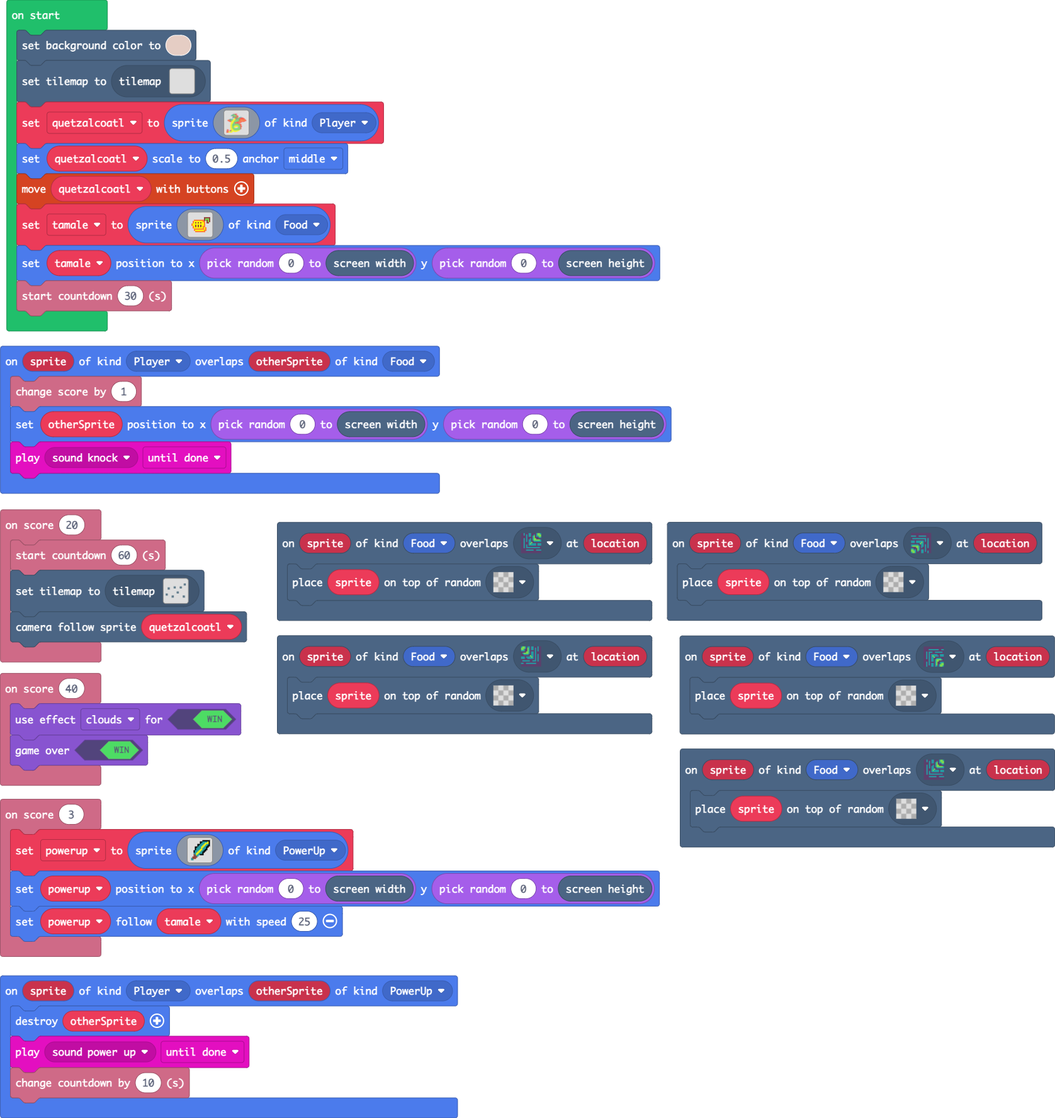
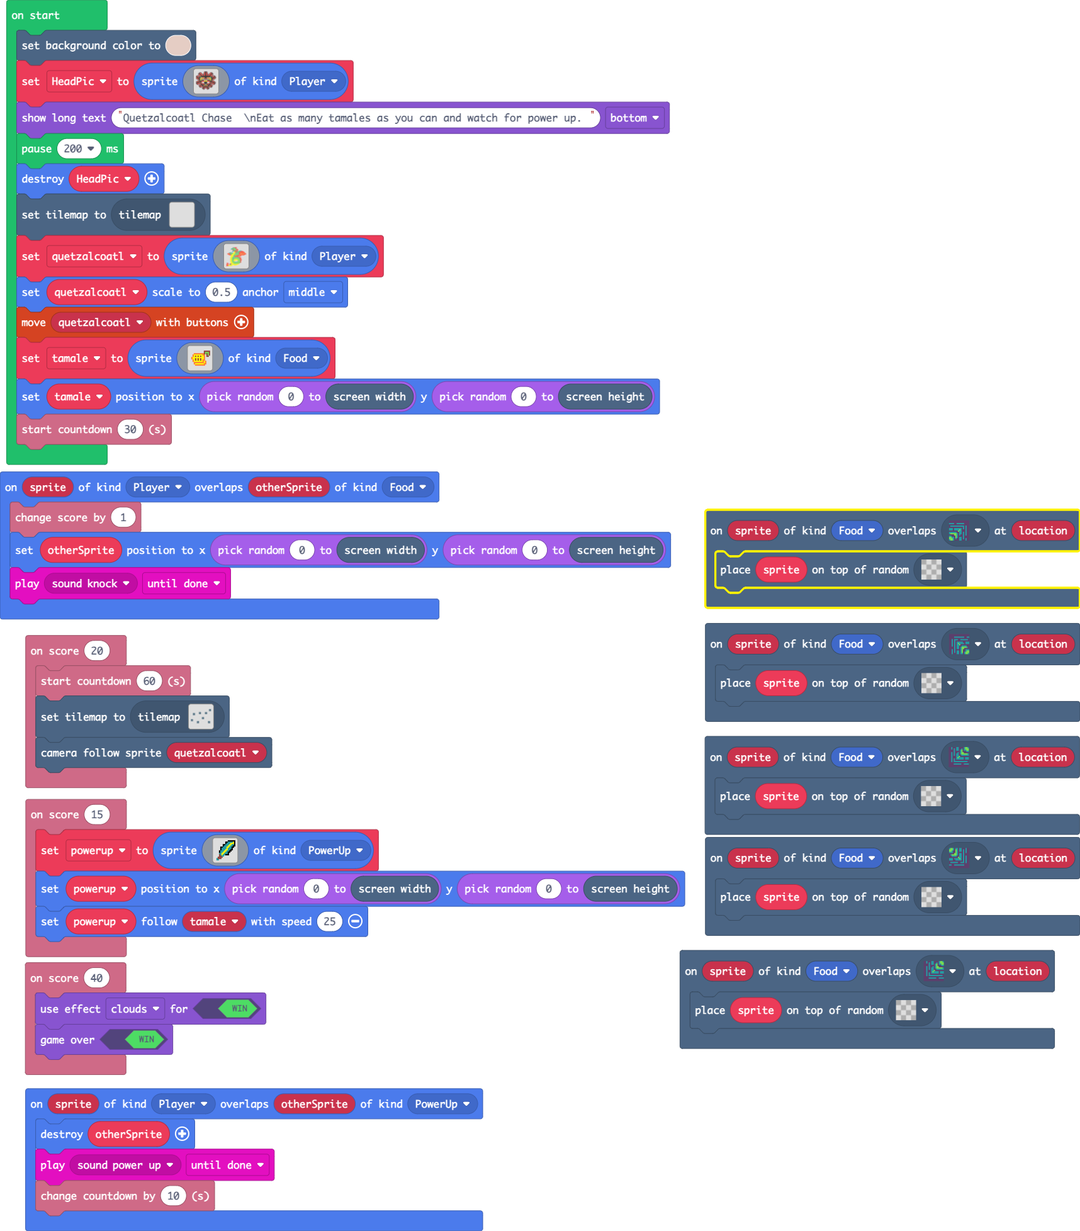
Update pxt.json, main.blocks, main.ts

diff --git a/main.ts b/main.ts
@@ -7,6 +7,11 @@ scene.onOverlapTile(SpriteKind.Food, sprites.dungeon.greenInnerSouthEast, functi
 scene.onOverlapTile(SpriteKind.Food, sprites.dungeon.greenInnerNorthWest, function (sprite, location) {
     tiles.placeOnRandomTile(sprite, assets.tile`transparency16`)
 })
+info.onScore(15, function () {
+    powerup = sprites.create(assets.image`sword`, SpriteKind.PowerUp)
+    powerup.setPosition(randint(0, scene.screenWidth()), randint(0, scene.screenHeight()))
+    powerup.follow(tamale, 25)
+})
 sprites.onOverlap(SpriteKind.Player, SpriteKind.PowerUp, function (sprite, otherSprite) {
     sprites.destroy(otherSprite)
     music.play(music.melodyPlayable(music.powerUp), music.PlaybackMode.UntilDone)
@@ -17,11 +22,6 @@ scene.onOverlapTile(SpriteKind.Food, assets.tile`myTile`, function (sprite, loca
 })
 scene.onOverlapTile(SpriteKind.Food, sprites.dungeon.greenInnerNorthEast, function (sprite, location) {
     tiles.placeOnRandomTile(sprite, assets.tile`transparency16`)
-})
-info.onScore(3, function () {
-    powerup = sprites.create(assets.image`sword`, SpriteKind.PowerUp)
-    powerup.setPosition(randint(0, scene.screenWidth()), randint(0, scene.screenHeight()))
-    powerup.follow(tamale, 25)
 })
 sprites.onOverlap(SpriteKind.Player, SpriteKind.Food, function (sprite, otherSprite) {
     info.changeScoreBy(1)
@@ -44,6 +44,161 @@ let powerup: Sprite = null
 let tamale: Sprite = null
 let quetzalcoatl: Sprite = null
 scene.setBackgroundColor(13)
+let HeadPic = sprites.create(img`
+    ...............................................................................................................................................................
+    ...............................................................................................................................................................
+    ...................................................................bfffffffb..cfffffffb........................................................................
+    ...................................................................bfffffffb..cfffffffb........................................................................
+    ................................................................dbbefffffffcbccfffffffebb......................................................................
+    ................................................................dfff22ffffffffffffff22fff......................................................................
+    ................................................................dfffeeffffffffffffffe2fff......................................................................
+    ................................................................dfff22e2effffffffeee22fff......................................................................
+    ................................................................dfff2222effffffffe222efff......................................................................
+    ..........................dbbbbbbbbbbbbbd....................dbbbfff2222effffffffe222efffbbbd....................dbbbbbbbbbbbbbd...............................
+    ..........................dfffffffffffffb....................dfffeeee222effffffffe2222eeeffcd....................bfffffffffffffd...............................
+    ..........................dfffffffffffffb....................dfffe22e222effffffffe2222e2effcd....................bfffffffffffffd...............................
+    ........................bccfffffffffffffecc..................dfffe222222effffffffe2222ee2ffcd..................cccfffffffffffffccb.............................
+    ........................cffffe222222222efff..................dfffe222222effffffffe2222ee2ffcd..................fffe22222222eeffffc.............................
+    ......................d.cffffee22222222efff.d................dfffe222222effffffffe2222ee2ffcd..................fff222222222eeffffc.............................
+    .....................dccfffffe22ee2222eefffccb...............dfffe222222effffffffe2222ee2ffcd...............bccfffe2e22ee222efffffccd..........................
+    .....................bfffffffe2e22222222222ffc...............dfffe222222effffffffe2222ee2ffcd...............cff2e22e22222222efffffffb..........................
+    .....................bfffffffeeee2222222e22ffc...............dcffe222222effffffffe2222ee2ffcd...............cff22e2e2222eeeeefffffffb..........................
+    ..................bfffffffffffffe222e2222e2eefffb..........ffffee2222222effffffffe2222222eefffc..........cfffee22222e2222efffffffffffffd.......................
+    ..................bfffffffffffffe222e22222222fffb..........ffffee2222222effffffffe22222222efffc..........cfff222222222222efffffffffffffd.......................
+    ..................bfffffffffffffeeeee222222e2fffebbd.......ffff2e2222222effffffffe222222222fffc.......dbbcfff2e222222eeeeffffffffffffffd.......................
+    ..................bfff2eeeeffffffffee22222222222fffb.......fffeee2222222effffffffe2222222e2fffc.......bfff222ee222e22eeffffffffeee22fffd.......................
+    ..................bfff2e2eeffffffffeee2222222222fffb.......ffffee2222222effffffffe2222222e2fffc.......bfff222222222222effffffffee222fffd.......................
+    ..................bfff2eeeeeefffffffff2222222222eeeccc.....ffffee2222222effffffffe2222222e2fffc.....ccceeee22222222efffffffffeee2e22fffd.......................
+    ..................bfff2e22222fffffffff22222222222eefff.....ffffee2222222effffffffe2222222e2fffc.....fff2ee222222222efffffffff2222222fffd.......................
+    ..................bfff2e22222fffffffffee22222222e22fffddd..ffffee2222222effffffffe2222222e2fffc..dddfff2e22222222eeefffffffffee22222fffd.......................
+    ..................bfff2e222e2eeeffffffffe22222222e2eeeffc..ffffee2222222effffffffe2222222e2fffc..cffeee2e2222222eeffffffffeee2222222fffd.......................
+    ..................bfff2e222e22eeffffffffe22222222e22e2ffc..ffffee2222222effffffffe2222222e2fffc..cffe2e2222222222effffffffee22e22222fffd.......................
+    ..................bfff222222e2e2fffffffffee2e222222e2effebbffffee2222222effffffffe2222222e2ffffbbcffe2e2222eee2eefffffffffee22e2222efffd.......................
+    ..................bfff2222222222eeeffffffffe22e2222eeeeefffffffee2222222effffffffe2222222e2fffffffeee222222eeeeffffffffeee2e22eee22efffd.......................
+    ..................bfff222222222ee2effffffffe222e22222e22fffffffee2222222effffffffe2222222e2fffffff222e22222222effffffffe2222222e22eefffd.......................
+    ..................bcccffe2e22222eeeffffffffeeeee2e2ee222fffffffee2222222effffffffee222222e2fffffff222eee222eeeeffffffffee2e2222e2effcccd.......................
+    .....................bffeee2222222ee2effffffffee2e2e222222effffee2222e22effffffffee2e2222e2ffff2222222ee22eeffffffffe2222222222eeeffb..........................
+    .....................bffe222222222e22effffffffeee2e2222222effffee22222eeeffffffffeeee2222e2ffff22222222e2eeeffffffffe2222222222eeeffb..........................
+    ....dbcccccccccc.....dbdcff22222222ee2eefffffffff2e2222222effffee222eeffffffffffffff2e222e2ffff2222222222fffffffffeee2222222222ffcddd.....ccccccccccbd.........
+    ....dcfffffffffc........cff2e222222222eefffffffffee22222222fffe2e2222effffffffffffff2e2222effff2e222222eefffffffffe2e222222e222ffc........cfffffffffcd.........
+    ..dddcfffffffffc.dddd...cffeee22222222eefffffffffeeeeeeeeeeffffeeeee2effffffffffffffeeeeeeeffffeeeeeeeee2fffffffffe22222222e2eeffc...dddddcfffffffffcdd........
+    ..cfff222222222efffffc....dfff22222222e2ee2ffffffffffffffffffffffffffffffffffffffffffffffffffffffffffffffffffff2ee2e2222222efffd....cfffffe222222222fffc.......
+    ..cfff222222222efffffc....dfff2e2e2e2e222eeffffffffffffffffffffffffffffffffffffffffffffffffffffffffffffffffffff2222e2e22e22efffd....cfffffe22222e2e2fffc.......
+    ..cfffffe2e222eefffffccccccbbeffe2efffffffffffffffffffffffffffffffffffffffffffffffffffffffffffffffffffffffffffffffffffee2effebbccccccfffffee2222e2fffffc.......
+    ..cfffffe2e2222eeeeeeffffff11cffe2effffffffffffffffffffffffffffffffffffffffffffffffffffffffffffffffffffffffffffffffffffe2fffc11ffffffeeeeeee222e22fffffc.......
+    ..cfffff222222e2e222effffff11cffe2effffffffffffffffffffffffffffffffffffffffffffffffffffffffffffffffffffffffffffffffffffeefffc11ffffffe222222222ee2fffffc.......
+    ccffffff2e2222222222eeffffeccffffffffffffffffffffffffffffffffffffffffffffffffffffffffffffffffffffffffffffffffffffffffffffffffcceffffe2222222eeeee2ffffffccb....
+    ffffffff22ee2e222222ee2ee2effffffffffffffffffffffffffffffffffffffffffffffffffffffffffffffffffffffffffffffffffffffffffffffffffffee2eee2222222eeeee2ffffffffb....
+    ffffffffeeeeee2222222e2222effffffffffffffffffffffffffffffffffffffffffffffffffffffffffffffffffffffffffffffffffffffffffffffffffffe22eee2222222eeeeeeffffffffbdd..
+    fffffffffffffee22222222eeeefffff66666666666ffffffffffffffffffffffffffffffffffffffffffffffffffffffffffffffffffff6666666666ffffffee2e22222e222efffffffffffffccc..
+    fffffffffffffe2eee222222e2efffff77777777777ffffffffffffffffffffffffffffffffffffffffffffffffffffffffffffffffffff77777777776fffffeee222222eee2effffffffffffffff..
+    fffffffffffffeee22222e2eeeefffff67777777777ffffffffffffffffffffffffffffffffffffffffffffffffffffffffffffffffffff77777777776fffffeee22222222eeeffffffffffffffff..
+    e222efffffffffffe2222eeeffffffffffffff77777777444444444444444444444effffffffffffffffffe44444444444444444444477777777ffffffffffffffe2e2222efffffffffffe222efff..
+    e22eefffffffffffee22eeeeffffffffffffff77777777444444444444444444444effffffffffffffffffe44444444444444444444477777777ffffffffffffffe2e2222efffffffffffe222efff..
+    e222eefffffffffffffffe2effffffffffffffff6777774444444444444444444444eeffffffffffffffee4444444444444444444444777776ffffffffffffffffe2efffffffffffffffee222efff..
+    e222222effffffffffffff2effffffffffffffff677777444444444444444444444444ffffffffffffff444444444444444444444444777776ffffffffffffffffe2ffffffffffffffe222e22efff..
+    e222222effffffffffffff2effffffffffffffff677777444444444444444444444444ffffffffffffff444444444444444444444444777776ffffffffffffffffe2ffffffffffffffeee2222efff..
+    e2222222eeeeeffffffffffffffffffffff55555555444444444444444444444444444ffffffffffffff44444444444444444444444444455555555ffffffffffffffffffffffeeeee2222222efff..
+    e222222e22222ffffffffffffffffffffff55555555444444444444444444444444444ffffffffffffff44444444444444444444444444455555555ffffffffffffffffffffff2e2222222222efff..
+    ffe222222ee22fffffffffffffffffff7775555555544444444eeeeeeeeeeeeee44eeeccffffffffffcceee44eeeeeeeeeeeeee4444444455555555776fffffffffffffffffffee222222eeeffccc..
+    ffe2ee2222e22eeeffffffffffffffff555555ffe5544444444cfffffffffffff44effe222222222222effe44fffffffffffffe4444444455eff555557ffffffffffffffffeeee2222ee222fffb....
+    ffe22ee22222e22effffffffffffffff555555ffe5544444444cfffffffffffff44eff22222222222222ffe4efffffffffffffc4444444455eff555555ffffffffffffffffe2e22222222e2fffb....
+    cccffeee22eee2eeffffffffffffffff555eeeee55544444eeeeeeeeeeeeeeeeeeefffeeeee222eeeeeefffeeeeeeeeeeeeeeeeeee44444555eeeee557ffffffffffffffffee2222222eeffcccd....
+    ..cfff22e22e22222222eeffffffffff755fff5555544444effe5555555555557ffffffffffe22effffffffff5555555555555effe4444e55555fff557ffffffffffee2222222eee22eefffc.......
+    ..cfffeeeee222222222eeffffffffff755fff55555444eeeffe5555555555557ffffffffffe22effffffffff5555555555555effeee44e55555fff557ffffffffffee222222222eeeeefffc.......
+    ..bbccfffff2e2222222eeffffffffff755fff5555544eeceee45511111111557fffeeeeeeeeeeeeeeeeeefff55511111111554eeecee4455555fff557ffffffffffee222222222fffffccbb.......
+    ....dcfffff222222e22222effffffff755fff5555544effe5555511111111557ffc3333333effe3333333cff5551111111155555effe4455555fff557ffffffffe22e2222e2222fffffcd.........
+    ....dcfffffeeeeee222222effffffff755fff5555544effe5555511111111557ffc3333333effe3333333cff55d1111111155555effe4455555fff557ffffffffe22222eeeeeeefffffcd.........
+    ......ddddbfffffee22222effffffff755fff5554444effe55111fffffffcd1dffc33ffc33effe33cff33cff11dcfffffff11155effe4444555fff557ffffffffe222222efffffbdddd...........
+    ..........bfffffe222222effffffff755fff5544444effe55111fffffffcd1dffc33fff33effe33fff33cff11dffffffff11155effe4444455fff557ffffffffe222222efffffb...............
+    ..........dcccccfffffe2effffffff755efc5544444effe55111fffffffcd1deeebbfff33effe33fffbbeee11dffffffff11155effe4444455efe557ffffffffeeefffffcccccd...............
+    ...............dffffff2effffffff755555ffe4444effe55111fffffffcd11557fffff33effe33fffff75511dffffffff11155effe4444eff455557ffffffffe2ffffffd....................
+    ...............dffffff2effffffff755554ffe4444effe55111fffffffcd11557fffff33effe33fffffe5511dffffffff11155effe4444eff455557ffffffffe2ffffffd....................
+    ................dddddbffffffffffffc555ee455ffffff66cccfffffffcd1dffebbbbb33effe33bbbbbeff11dffffffffccc66ffffff554ee555effffffffffffbddddd.....................
+    .....................bfffffffffffff75555555ffffffffffffffffffcd1dffc3333333effe3333333cff11dfffffffffffffffffff55555557fffffffffffffb..........................
+    ...................ddbfffffffffffff75555555ffffffffffffffffffcdddffc3333333effe3333333cffdddfffffffffffffffffff55555557fffffffffffffbdd........................
+    ..................bccffffeeeefffffffff55555fffffffffffffffffff666ff75555555effe5555555eff666fffffffffffffffffff55555fffffffffeeeefffffcd.......................
+    ..................bfffffe2222fffffffff55555ffffffffffffffffffffffff75555555effe55555557ffffffffffffffffffffffff55555fffffffffee22efffffd.......................
+    .............dddddcfffffe2222fffffffff55555ffffffcccccccccccccccc7675555555effe5555555767eeecccccccccccccffffff55555fffffffffee22efffffbddddd..................
+    .b...........cfffffeeeeee22eeeeeffffffffffffffffe22222222222222225555555555effe55555555552222222222222222effffffffffffffffeee2e2eeeeeeefffffc..................
+    .b...........ffffffe2222222eeeeeffffffffffffffffe22222222222222225555555555effe55555555552222222222222222effffffffffffffffe22222222222effffff..................
+    db......dddddffffffe2222222e2eeeffffffffffffffcce22222222222222225555555555effe55555555552222222222222222eeeffffffffffffffeeeee222222eeffffffddddd.............
+    cc......fffffe2222e2222222222fffffffffffffffffee222222222222222225555555555effe555555555522222222222222222eefffffffffffffffffee2222222e22222efffff.............
+    ff......fffffe222222e2eeeeee2fffffffffffffffffe2222222222222222225555555555effe5555555555222222222222222222efffffffffffffffffeeeee2222e22222efffff.............
+    ff..dbccfffffe222222eeeefffffffffffffffffffffeee222222222222222225555555555effe5555555555222222222222222222eefefffffffffffffffffffe222eee222efffffccbd.........
+    ff..dcff22222e2222222e2efffffffffffffffffff22e22222222222222222225555555555effe555555555522222222222222222eee22fffffffffffffffffffe2222222222eeee2ffcd.........
+    ff.ddcff2e22e222222eeeeefffffffffffffffffffee2e2222222222222222225555555555effe5555555555222222222222222222e2eefffffffffffffffffffeeeeee22222222e2ffcdd........
+    ffcfffeee222e2222eeffffffffffffffffffffffeee22e2effbdddd344444444ffffffffffffffffffffffff444444443ddddbffe2222eeeffffffffffffffffffffffee222222eeeeefffc.......
+    ffcfff222eee22222eeffffffffffffffffffffff222e222effeddddb44444444ffffffffffffffffffffffff444444443ddddeffe2ee22e2ffffffffffffffffffffffe222222ee2222fffc.......
+    cccffe22ee2e2effffffffffffffffffffffffffe2e22eeeebbbddddd3333333bffffffffffffffffffffffff33333333dddddbbbeeee22e2effffffffffffffffffffffffffee222e22effcccd....
+    fffeee22e22e2ffffffffffffffffeeeffffffeee2e22effeddd11ddd11111ddbffffffffffffffffffffffffddd11111ddd11dddeffee2e2eeeffffffeeeffffffffffffffff2e22ee2eeefffb....
+    fff22222e2e22ffffffffffffffffeeeffffffe22ee22effeddd11ddd11111ddbffffffffffffffffffffffffddd11111ddd11dddeffe2222222ffffffe2effffffffffffffff22222e2222fffb....
+    fff2222efffffffffffffffffeeeee2effffffe2222ffebbdddd11ddd11111ddbffffffffffffffffffffffffddd11111ddd11ddddbbeffee222ffffffeeeeeeefffffffffffffffffe2222fffb....
+    fff2222effffffffffffffffe222222effffffe222effb11dddd11ddd11111ddbffffffffffffffffffffffffddd11111ddd11ddd111bff2e222ffffffee22222effffffffffffffffe2222fffb....
+    fffeeeeeffffffffffffffffe222222effffffe222effedddddd11ddd11111ddbffffffffffffffffffffffffddd11111ddd11dddd1deff2e222ffffffe222e2eeffffffffffffffffeeeeefffb....
+    fffffffffffffffffffeeeeee222222eeeffffe2222eeeeebddd11ddd11111ddbffffffffffffffffffffffffddd11111ddd11dddbeeeee22222fffeeee222e2eeeeeeefffffffffffffffffffb....
+    fffffffffffffffffffe222222222222eeefffe222e2eeffeddd11ddd11111ddbffffffffffffffffffffffffddd11111ddd11dddeffe22e2222fffeee2222e22e2222efffffffffffffffffffb....
+    fffffffffffffffffffe222222222222eeefffeee2222effeddd11ddd11111ddbffffffffffffffffffffffffddd11111ddd11dddeffe2222eeefffeee2222222222222fffffffffffffffffffb....
+    fffffffffffffe222ee2e2222222222efffffffffe2222eeeffe44443dddddddbffffffffffffffffffffffffdddddddd34444effe2e22222fffffffffee222222222e2ee222efffffffffffffb....
+    fffffffffffffe222222e2222222222efffffffff222222eeffe44443dddddddbffffffffffffffffffffffffdddddddd34444effe2e22222fffffffffe2222222222ee22222efffffffffffffb....
+    bbfffffffffffe222e22e2e222efffffcbcffffffff2eeee2222eeeeeeeeeeeeeffffffffffffffffffffffffeeeeeeeeeeeee2222222e2ffffffffbbefffffe222ee2e2ee22effffffffffcbbd....
+    ..cfffff22222222222222e222efffffd11cfffffff2e2222222ffffffffffffffffffffffffffffffffffffffffffffffffff2222e2222fffffffc11bfffffe2e2222222222e22222fffffc.......
+    ..cfffff222222222222222222efffffd1dcfffffff222222222ffffffffffffffffffffffffffffffffffffffffffffffffff222222222fffffffc11bfffffe2222e2222222222222fffffc.......
+    ..cfffff222222222222effffff.....ffffeeeeffffffffe22222222222222222222266666cff866666222222222222222222222fffffffffeeeefffc.....ffffffe222222222222fffffc.......
+    ..cfffffe2e22222e222effffff.....ffff2e22fffffffff222222222222222222222666668ff866666222222222222222222222fffffffffee2efffc.....ffffffe222e22e22e2efffffc.......
+    ..cccfff2ee2222efffffeccccc..dbbfffe2e22fffffffff222222222222222222222666668ff866666222222222222222222222fffffffffeee2effcbbd..cccccefffffe222222efffccb.......
+    ..dddcff2e2222eefffffcddddd..cffeeeeee22fffffffffffe222222222222222222666668ff866666222222222222222222efffffffffffee22eeefffc..dddddcfffffe2e222eeffcddd.......
+    ....dcff22e222eefffffc.......cffe2222e22fffffffffffe222222222222222222666668ff866666222222222222222222efffffffffffee22ee2fffc.......cfffffe22222e2ffcd.........
+    ....dbccfffffffecccccb....dbbcffe2222222fffffffffffceeeeeeeeeeeeeeeeee77777cffc77777eeeeeeeeeeeeeeeeeecfffffffffffee2222efffcbbd....bcccccefffffffccb..........
+    ........fffffffc..........dfffe222222222ffffffffffffffffffffffffffffff55555effe55555ffffffffffffffffffffffffffffffee22222eeefffd..........cfffffff.............
+    ........fffffffc..........dfff2e22e2e2eeffffffffffffffffffffffffffffff55555effe55555ffffffffffffffffffffffffffffffeee22e222efffd..........cfffffff.............
+    ........cccccccb........bbbffee222e2eeffffffffffffffffffffffffffffffff55555effe55555ffffffffffffffffffffffffffffffffe222222eeffbbb........bccccccc.............
+    ........................cff22e222222eeffffffffffffffffffffffffffffffff55555effe55555ffffffffffffffffffffffffffffffffe2e222222e2ffc.............................
+    ........................cff2eee2222eeeffffffffffffffffffffffffffffffff55555effe55555ffffffffffffffffffffffffffffffffeee2222e222ffc.............................
+    .....................bffeee222e222effffffffeeffffffffffffff44444effffffffffffffffffffffff44444efffffffffffffeeeffffffffeee22222eeeffb..........................
+    .....................bffe2e2222e2eeffffffff22ffffffffffffff444444ffffffffffffffffffffffff444444fffffffffffffe2effffffffe222222e22effb..........................
+    .....................bffe2222222eeeffffffffeeefffffffffffff444444ffffffffffffffffffffffff444444fffffffffffffe2effffffffeee2222222effb..........................
+    .....................bffe2ee222effffffffeee22eeeeffffffffff4444444444444444effe4444444444444444ffffffffffeee222eeeffffffff2eeee22effb..........................
+    .....................bffe2222222fffffffffe222222fffffffffff4444444444444444effe4444444444444444ffffffffffee22222eeffffffff2e22ee2effb..........................
+    .....................bffe2222fffffffffeee2222222eeeffffffffffe4444444444444effe4444444444444fffffffffffeeee22222eeeeffffffffe2e22effb..........................
+    .....................bffe2222fffffffff2222222222222fffffffffff4444444444444effe444444444444efffffffffff2222222222222fffffffffee22effb..........................
+    .....................bfffeeeefffffffff2222222222eeefffffffffffe444444444444effe444444444444efffffffffffee2222222222efffffffffeeeeeffb..........................
+    .d...................dddcfffffffffffee2222222222ffffffffffffffffffffffffffffffffffffffffffffffffffffffffff222222222eeefffffffffffcddd..........................
+    .b......................cffffffffffee22222222222fffffffff22ffffffffffffffffffffffffffffffffffff22fffffffffe2222222222eeffffffffffc.............................
+    .b......................ccfffffffffee2e222222eeeeccffffff22ffffffffffffffffffffffffffffffffffff22ffffffcceeee222222222efffffffffcc.............................
+    .b......................dddfffffeee2ee2ee2222fffcddcffeee2eeeeffffffffffffffffffffffffffffffeeeeeeeeffcddcfff222eee22e2eeffffffddd.............................
+    .b........................dfffffe22ee22222eeefffb..cff22e22e2effffffffffffffffffffffffffffffee2eee22ffc..cfff2eee22e2ee2eefffffd...............................
+    .b........................dfffffe2222e2eeeeeeeccb..cff22222eeeffffffffffffffffffffffffffffffeee2ee2effc..ccceeeeeeee2e222efffffd...............................
+    .b........................dfffffe222222efffffc.....cff22222fffffffff2222ee2ffff2222222fffffffffe222effc.....cfffffe2e22e2efffffd...............................
+    .b........................dfffffe2222222fffffc.....cff22222fffffffff2222ee2ffff2222222fffffffffe2222ffc.....cfffff2222222efffffd...............................
+    .b.........................bbcffffffffffcbbbbd..bcceffe2222fffffffff2222ee2ffff2222222fffffffffe2222ffeccd..dbbbbcffffffffffcbb................................
+    .b...........................cffffffffffb.......bfffe22eee2fffffffffe22222effff222222efffffffffeeee2e2fffb.......bffffffffffc..................................
+    .b...........................cffffffffffb.......bfffe22eeeefffffffffe222eeeffffeee222efffffffffeeee2e2fffb.......bffffffffffc..................................
+    .d..............................................bfffe222fffffffffeee2222fffb..cffe2222eeefffffffffe2e2fffb.....................................................
+    ................................................bfffe222fffffffff2222222fffb..cfff2222222fffffffffe2e2fffb.....................................................
+    ................................................bfffe22efffffffffe222222fffb..cfffe222222fffffffffe2e2fffb.....................................................
+    ................................................bfffe22efffffffffe222222fffb..cfffe222222fffffffffe2e2fffb.....................................................
+    ................................................bfffe22efffffffffe222222fffb..cfffe222222fffffffffe2e2fffb.....................................................
+    ................................................bfffe2ffffffffffee2222ffcbbd..dbbcffe2ee2fffffffffffeefffb.....................................................
+    ................................................bfff2effffffffe2e2222effc........cffe22eee2effffffffeefffb.....................................................
+    ................................................bfffeeffffffffe2e2eeeeffc........cffeee2222effffffffeefffb.....................................................
+    ................................................dbbcffffffffeeeee22effbbd........dbbffe2222eeeffffffffcbbd.....................................................
+    ...................................................cfffffffee22eee2fffd............dfff222222eefffffffc........................................................
+    ...................................................cfffffffeeee222efffd............dfffeee22eeefffffffc........................................................
+    ......................................................fffffeee2eeffc..................cffe2222efffff...........................................................
+    ......................................................fffffe22eeeffc..................cffe2222efffff...........................................................
+    ......................................................bbbbbffffffbbb..................bbbfffffcbbbbb...........................................................
+    ...........................................................ffffff........................fffffc................................................................
+    ...........................................................ffffff........................fffffc................................................................
+    ...............................................................................................................................................................
+    ...............................................................................................................................................................
+    ...............................................................................................................................................................
+    ...............................................................................................................................................................
+    ...............................................................................................................................................................
+    `, SpriteKind.Player)
+game.showLongText("Quetzalcoatl Chase  \\nEat as many tamales as you can and watch for power up. ", DialogLayout.Bottom)
+pause(200)
+sprites.destroy(HeadPic)
 tiles.setCurrentTilemap(tilemap`level1`)
 quetzalcoatl = sprites.create(assets.image`left-facing-queztalcoatl`, SpriteKind.Player)
 quetzalcoatl.setScale(0.5, ScaleAnchor.Middle)
